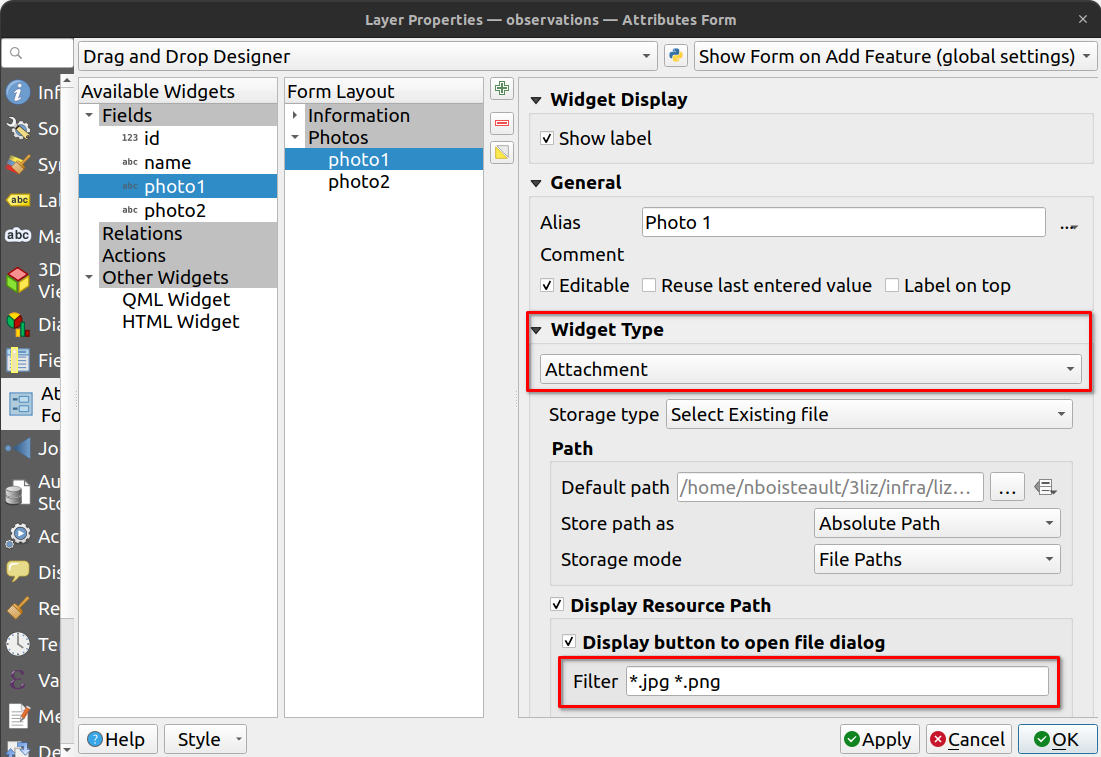
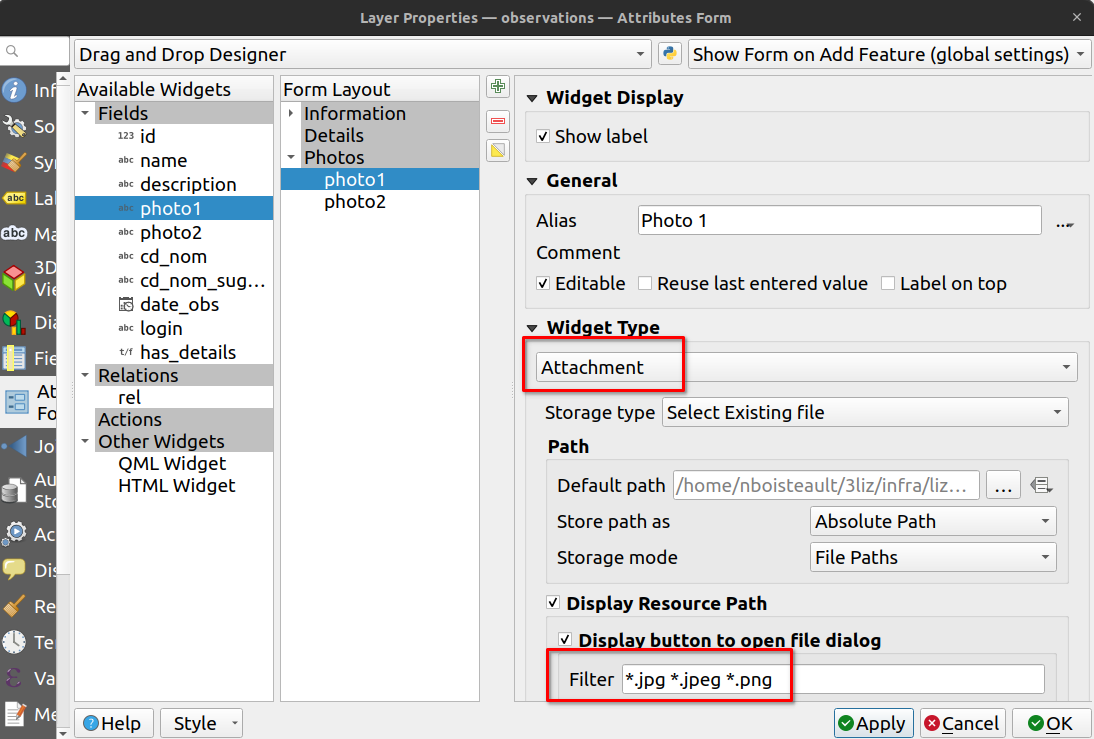
Second release

diff --git a/docs/2022-08_FOSS4G_Advanced_QGIS_forms_into_the_web_with_Lizmap.md b/docs/2022-08_FOSS4G_Advanced_QGIS_forms_into_the_web_with_Lizmap.md
@@ -35,22 +35,8 @@ headingDivider: 1
 
 Nicolas BOISTEAULT - 3LIZ
 
-# Mandatory fields
-
-- Define fields as `NOT NULL` in postgreSQL
-
-![w:400 top](media/foss4g2022_lizmap_advanced_forms/00_QGIS_NOT_NULL.png) ![w:400](media/foss4g2022_lizmap_advanced_forms/00_Lizmap_NOT_NULL.png)
-
-# Alias
-
-- Define aliases for your fields
-
-![w:400 top](media/foss4g2022_lizmap_advanced_forms/01_QGIS_alias.png) ![w:400](media/foss4g2022_lizmap_advanced_forms/01_Lizmap_alias.png)
-
-<!-- 
-- Fields name in database are simple/raw
-- Make the field more comprehensive
--->
+<!-- (20s) Hi, I'm going to show you how you can make advanced forms in QGIS which will be easy for users to be filled. This way you'll get more participation and less mistake in your data.
+I also will show you that you'll get those forms in the web thanks to Lizmap with no more configuration most of the time. -->
 
 # Organize form's fields
 
@@ -58,27 +44,39 @@ Nicolas BOISTEAULT - 3LIZ
 
 ![w:800](media/foss4g2022_lizmap_advanced_forms/02_QGIS_dnd_tabs_conf.png)
 
-<!-- 
+<!-- (20s)
+- Decide which fields are to be visible
 - Change field's order
 - Create tabs and group box
 -->
 
-# Tabs
+<!-- # Tabs
 
 ![w:400 top](media/foss4g2022_lizmap_advanced_forms/02_QGIS_dnd_tabs_result.png) ![w:400](media/foss4g2022_lizmap_advanced_forms/02_Lizmap_dnd_tabs.png)
 
 # Group box
 
-![w:400 top](media/foss4g2022_lizmap_advanced_forms/03_QGIS_dnd_groupbox_result.png) ![w:400](media/foss4g2022_lizmap_advanced_forms/03_Lizmap_dnd_groupbox.png)
+![w:400 top](media/foss4g2022_lizmap_advanced_forms/03_QGIS_dnd_groupbox_result.png) ![w:400](media/foss4g2022_lizmap_advanced_forms/03_Lizmap_dnd_groupbox.png) -->
 
-# Toggle tabs of group box visibility on condition
+# Toggle tabs or group box visibility on condition
 
-![w:500 top](media/foss4g2022_lizmap_advanced_forms/06_QGIS_toggle_conf.png)
-![w:500 top](media/foss4g2022_lizmap_advanced_forms/06_QGIS_toggle_conf2.png)
+![w:850](media/foss4g2022_lizmap_advanced_forms/06_QGIS_toggle_conf.png)
+
+<!-- (35s) Let's say we create a form for everybody (AKA crowdsourcing) but also logged in users in Lizmap (like people in our organization).
+Let's say you have a form with many fields but many of them are not mandatory so you don't want to show them all when users open the form to not scare them. If it seems too long to fill it, they might give up and close it.
+Here I've created a boolean field called `has_details`, with `Add details` as an Alias to have a more understandable title for this field and it is defined as a `Checkbox`... -->
+
+---
+
+![w:850](media/foss4g2022_lizmap_advanced_forms/06_QGIS_toggle_conf2.png)
+
+<!-- (15s) ...I also create a `Details` tab thanks to the `Drag and Drop Designer` configured with a `Control Visibility by Expression` to only display it when `has_details` checkbox is checked. -->
 
 ---
 
 ![w:400 top](media/foss4g2022_lizmap_advanced_forms/06_QGIS_toggle_result.gif)![w:400 top](media/foss4g2022_lizmap_advanced_forms/06_Lizmap_toggle.gif)
+
+<!-- (10s) Here is the result. As you can see `Details` tab is only visible when `Add details?` is checked -->
 
 # Upload files
 
@@ -86,9 +84,11 @@ Nicolas BOISTEAULT - 3LIZ
 
 ![w:650](media/foss4g2022_lizmap_advanced_forms/04_QGIS_attachment_conf.png)
 
+<!-- (10s) We want people to upload photos. We create fields defined as `Attachment` with a Filter to only display JPEG and PNG files -->
+
 ---
 
-![w:500](media/foss4g2022_lizmap_advanced_forms/04_QGIS_attachment_result.png)
+![w:550](media/foss4g2022_lizmap_advanced_forms/04_QGIS_attachment_result.png)
 
 ![w:500](media/foss4g2022_lizmap_advanced_forms/04_Lizmap_attachment.png)
 
@@ -97,7 +97,13 @@ Nicolas BOISTEAULT - 3LIZ
 
 ![w:700](media/foss4g2022_lizmap_advanced_forms/04_Lizmap_attachment_crop..gif)
 
+In Lizmap, you can also rotate or crop images. It is more convenient than to have to install a software for that.
+
 # Constraints with expression
+
+![w:800](media/foss4g2022_lizmap_advanced_forms/05_QGIS_constraint_conf.png)
+
+---
 
 ![w:800](media/foss4g2022_lizmap_advanced_forms/05_QGIS_constraint_result.gif)
 
@@ -107,9 +113,13 @@ Nicolas BOISTEAULT - 3LIZ
 
 # Save login and groups
 
-- @lizmap_user for users, @lizmap_user_groups for groups
+- Expression variables: @lizmap_user for users, @lizmap_user_groups for groups
 
 ![w:600](media/foss4g2022_lizmap_advanced_forms/07_QGIS_login_conf.png)
+
+<!-- When contributors are logged in Lizmap we can use their user login or user groups in form's expression.
+Here I have created an invisible `login` field which get filled by the user login when form is saved
+ -->
 
 # Value relation
 
